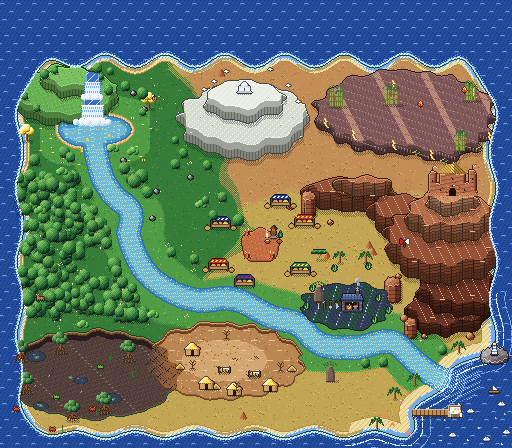
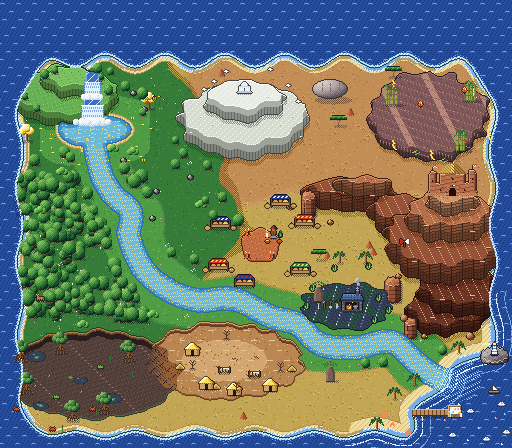
Revert "Ọ̀run: o mundo de Iansã junta a planície e o planalto numa terra alta só, com mais tempestade e redemoinhos"
This reverts commit ffadcf04e8bdc7ef27ed4341cd4cb74257d5b9cc.

Changed region(s): [[0.5938, 0.125, 0.9688, 0.375]]

diff --git a/README.md b/README.md
@@ -220,7 +220,7 @@ no teclado, "Aperte E". Nos diálogos e avisos, escreva `{interagir}`, `{atirar}
   `TRILHA_*` no `scripts/mapa_mundo.gd` e `LATERITA` no gerador) e, em volta do largo, fica o mercado de Exu
   (Ọlọ́jà, o dono do mercado): barracas com toldo de pano (adire azul-índigo, vermelho e amarelo, verde), cabaças e
   cestos (`mercado()` no `gerar_mapa_mundo.py`).
-- **O mundo de Iansã no Ọ̀run**: a planície e o planalto viraram uma terra alta só, de pedra avermelhada de tempestade, com o vento passando em ondas pelo capim
+- **O mundo de Iansã no Ọ̀run**: planalto de pedra avermelhada de tempestade, com o vento passando em ondas pelo capim
   (os tufos deitam quando a onda passa), bambuzais balançando com fitas vermelhas e cor de coral, os chifres de búfalo
   formando um arco na chegada (`arte/mundo_chifres.png`, enfeite como o portal de Ogum), redemoinhos de vento andando
   pelo planalto (`arte/mundo_redemoinho.png`) e chuva caindo das nuvens de tempestade (`_criar_vento_de_iansa()`).
